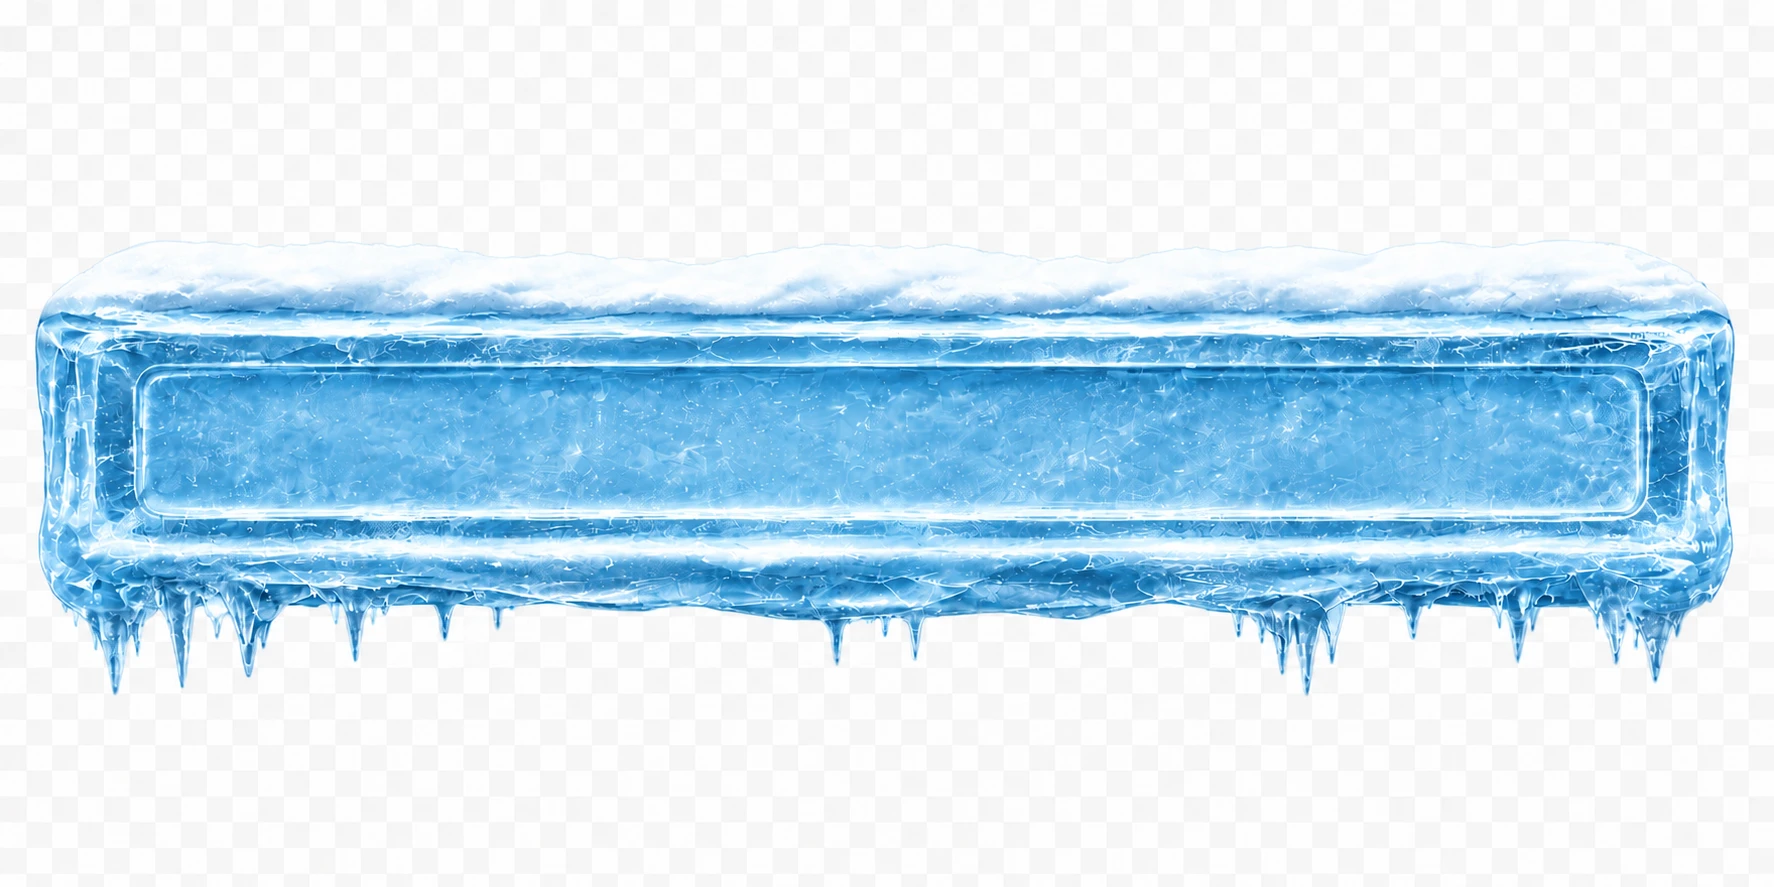
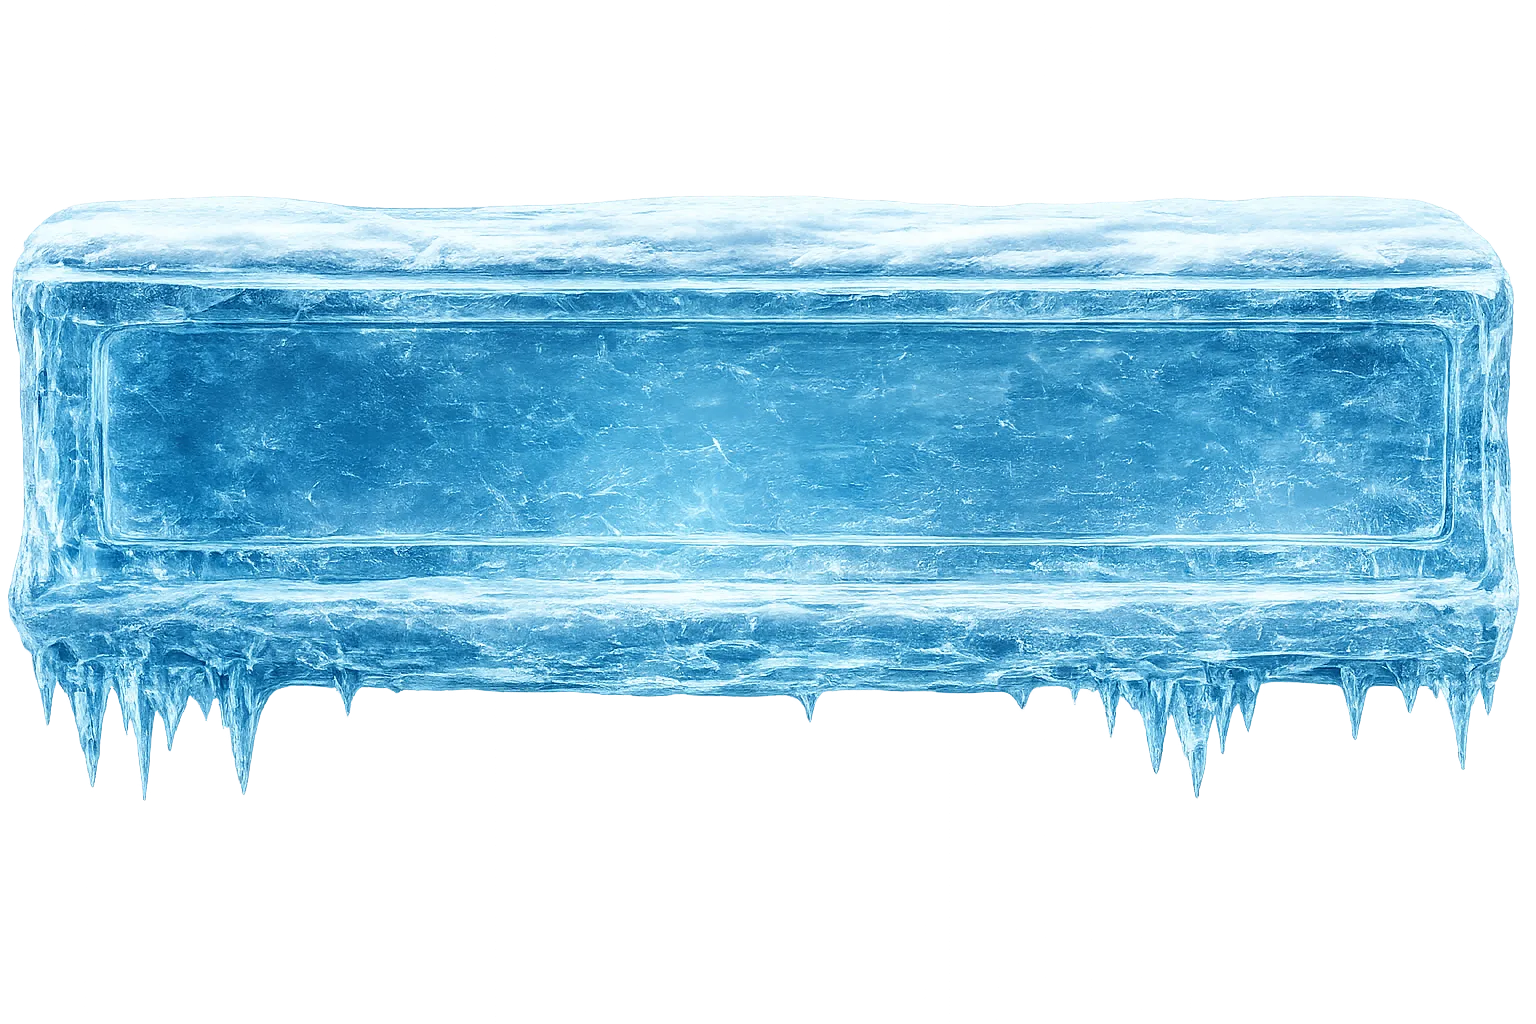
feat(frostline): final ice frame — user's TRUE-transparent asset (wos68)
The user supplied an ice-frame image with a real alpha channel this time
(52% genuinely transparent, corners at alpha 0) — no baked checkerboard,
so no flood-fill keying needed. Cleanest possible source.

- Alpha-cropped tight (1512x606), re-encoded to WebP preserving alpha
  (~430 KB). Kept as ice-frame-source.webp.
- Retuned the border-image 9-slice for this chunkier asset:
  slice 96/170/115/170 fill, border 42/60/48/60, outset 22/../30 so the
  thick snow lifts above the box and the icicles hang below it.
- Everything else (border-image frame technique, keyed-asset pipeline for
  the earlier checkerboard versions) unchanged.

Verified desktop + mobile: real glowing ice frame, thick snow on top,
crisp icicles, tabs + search inside, clean transparent edges, no leak.

Cache: wos67 -> wos68 (SW cache v9 -> v10) so devices pull the new asset.

diff --git a/apps/text-art-library/style.css b/apps/text-art-library/style.css
@@ -3357,11 +3357,11 @@ nav.controls {
   border-radius: 0 !important;          /* the ice provides the silhouette */
   border-style: solid !important;       /* enable border-image over inline none */
   border-color: transparent !important;
-  border-width: 40px 68px 54px 68px !important;   /* top right bottom left */
+  border-width: 42px 60px 48px 60px !important;   /* top right bottom left */
   border-image-source: url("assets/ice-frame.webp") !important;
-  border-image-slice: 96 196 150 196 fill !important;  /* snow / cap / icicles / cap */
-  border-image-width: 40px 68px 54px 68px !important;
-  border-image-outset: 20px 4px 34px 4px !important;   /* snow up, longer icicles down */
+  border-image-slice: 96 170 115 170 fill !important;  /* snow / cap / icicles / cap */
+  border-image-width: 42px 60px 48px 60px !important;
+  border-image-outset: 22px 4px 30px 4px !important;   /* snow up, icicles down */
   border-image-repeat: stretch stretch !important;
   box-shadow:
     0 0 26px rgba(96,206,255,0.40),      /* cyan glow halo */

diff --git a/apps/text-art-library/index.html b/apps/text-art-library/index.html
@@ -19,7 +19,7 @@
   <link rel="preconnect" href="https://fonts.googleapis.com">
   <link rel="preconnect" href="https://fonts.gstatic.com" crossorigin>
   <link rel="stylesheet" href="https://fonts.googleapis.com/css2?family=Fredoka:wght@500;600;700&family=Nunito:wght@400;600;700;800&family=Roboto:wght@400;500;700&family=Noto+Sans:wght@400;700&family=Noto+Sans+JP:wght@400;500;700&family=Noto+Sans+KR:wght@400;700&family=Noto+Sans+Tibetan:wght@400;700&family=Noto+Sans+Symbols+2&family=JetBrains+Mono:wght@400;600&display=swap">
-  <link rel="stylesheet" href="style.css?v=wos67">
+  <link rel="stylesheet" href="style.css?v=wos68">
   <style id="hamburger-themes-ui">
     /* Respect the [hidden] attribute even when our display:flex rules win cascade */
     [hidden] { display: none !important; }
@@ -1450,7 +1450,7 @@
   </script>
   <script src="art.js?v=ds7r2"></script>
   <script src="palette-data.js?v=wos6"></script>
-  <script src="app.js?v=wos67"></script>
+  <script src="app.js?v=wos68"></script>
   <script>
     /* PWA: register the service worker so the app is installable and runs
        offline. Only on production-like origins (https or localhost). */

diff --git a/apps/text-art-library/app.js b/apps/text-art-library/app.js
@@ -1266,7 +1266,7 @@ if (drawerSectionsRoot) {
  * integration is optional on the server side; on the client we just render
  * whatever the function returns.
  */
-const APP_VERSION = 'wos67';
+const APP_VERSION = 'wos68';
 
 function captureFeedbackContext() {
   let editorState = 'locked';

diff --git a/apps/text-art-library/sw.js b/apps/text-art-library/sw.js
@@ -3,7 +3,7 @@
  * the install prompt. Bumps the cache name on every release so old assets
  * are evicted cleanly.
  */
-const CACHE = 'frostline-v9-wos67';
+const CACHE = 'frostline-v10-wos68';
 /* SHELL urls are stored WITHOUT version query strings; cache lookups use
  * { ignoreSearch: true } so a request for /app.js?v=wos60 still matches
  * the cached /app.js. This avoids re-listing every URL on each version bump. */